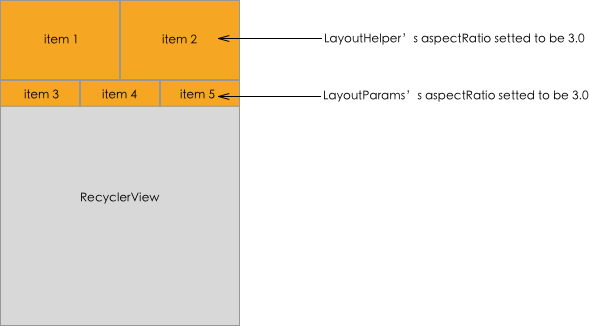
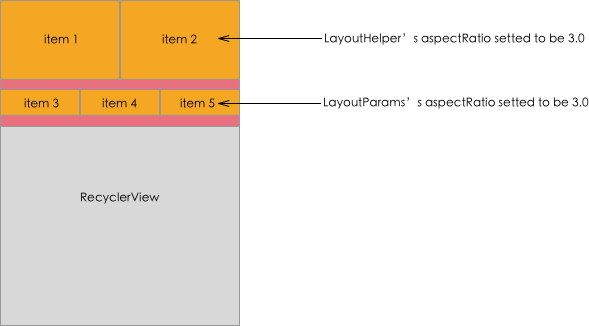
finish figure of attributes explaination

Changed region(s): [[0.0, 0.2454, 0.4278, 0.3988], [0.5501, 0.2761, 1.0, 0.3374]]

diff --git a/docs/ATTRIBUTES.md b/docs/ATTRIBUTES.md
@@ -10,7 +10,7 @@ Margin, padding have the similar concepts as normal Android system's margin and 
 + A ```RecyclerView``` could contains more than one layoutHelpers, which means each ```LayoutHelper``` is able to host its own margin and padding value.
 + ```LayoutHelper```'s margin and padding can coexist with ```RecylerView```'s margin and padding.
 
-![TODO]()
+![margin-padding](images/MarginPadding.png)
 
 ### API
 
@@ -23,6 +23,8 @@ For ```LayoutHelper```，call
 # bgColor, bgImg
 
 Actually, background color or background image has nothing to do with layout logic. But in our framework, all child views has the same parent which is ```RecyclerView```. If you want to fill background to a certain area with a color or image, it's a hard job. Vlayout has done some effort to make it possible for non-fix or non-float ```LayoutHelper```, so it's explained here.
+
+![background](images/Background.png)
 
 ### API
 
@@ -84,7 +86,7 @@ In order to uniform child view's height during layout, vlayout introduces aspect
 + The aspectRatio defined by ```LayoutHelper``` means the ratio of width of one entire row's view to height of this row's height. Here ```RecyclerView```'s margin padding and ```LayoutHelper```'s margin padding is not included in the width of entire row's view.
 + The aspectRatio defined in ```VirtualLayoutManager.LayoutParams``` means the ratio of width of this view to height of this view. The height calculated by this way will override ```LayoutHelper```'s calculation result, so it has higher priority.
 
-![TODO]()
+![aspectRatio](images/AspectRatio.png)
 
 ### API
 
@@ -100,7 +102,7 @@ For ```LayoutParams```, call
 
 ```LinearLayoutHelper```'s attribute. ```LinearLayoutHelper``` performs like ```ListView```, so as you know, dividerHeight is the gap between items.
 
-![TODO]()
+![dividerHeight](images/DividerHeight.png)
 
 ### API
 
@@ -114,7 +116,7 @@ For ```LinearLayoutHelper```, call
 
 This arribute is a float array, each item in array means the percentage of a column width. The sum of item value in array is 100, otherwise child view may be layouted outside the box. If there are four columns in this layout, the suggested length of weights is four, too. If length of weights array is larged than 4, the extra weight provided is ignored. If length of weights array is less than 4, the remaining views with no weight assigned share the ramaining available space.
 
-![TODO]()
+![weights](images/Weights.png)
 
 ### API
 
@@ -126,7 +128,7 @@ For ```ColumnLayoutHelper```, ```GridLayoutHelper```, call
 
 ```GridLayoutHelper``` and ```StaggeredGridLayoutHelper```'s attribute, vGap defines the vertical gap between child views, hGap defines the horizontal gap between child views.
 
-![TODO]()
+![vgap-hgap](images/HGapVGap.png)
 
 ### API
 
@@ -139,7 +141,7 @@ For ```GridLayoutHelper```, ```StaggeredGridLayoutHelper```, call
 
 ```GridLayoutHelper```'s attribute, concept borrowed from system's ```GridLayoutManager```. SpanCount specifies the column count, or grid count each line in other word. By default each item view in ```GridLayoutHelper``` occupies one grid, but with custom spanSizeLookup it allows one item view could occupy more than one grid space.
 
-![TODO]()
+![spanCount-spanSize](images/SpanCountSpanSize.png)
 
 ### API
 
@@ -155,7 +157,7 @@ Setting spanSizeLookup call
 
 ```GridLayoutHelper```'s attribute. On the occasion of one line view's count is less than spanCount, if autoExpand setted to be true, these view will expand to fill all available space, otherwise they will leave some blank area.
 
-![TODO]()
+![autoExpand](images/AutoExpand.png)
 
 ### API
 
@@ -171,9 +173,9 @@ Setting spanSizeLookup call
 
 # fixAreaAdjuster
 
-```LayoutHelper``` with fix behavior may need an offset to four edges of parent container. For example, a activity has a vlayout container with fullscreen size, there's an title bar on top of vlayout's container which is not part of vlayout. While a view inside vlayout wants to be fixed at top of vlayout, so it needs an offset to top edge to avoid overlapping with title bar outside.
+```LayoutHelper``` with fix behavior may need an offset to four edges of parent container. For example, an activity has a vlayout container with fullscreen size, there's an title bar on top of vlayout's container which is not part of vlayout. While a view inside vlayout wants to be fixed at top of vlayout, so it needs an offset to top edge to avoid overlapping with title bar outside.
 
-![TODO]()
+![fixAreaAdjuster](images/FixAreaAdjuster.png)
 
 ### API
 
@@ -188,7 +190,7 @@ Setting spanSizeLookup call
 + ```BOTTOM_LEFT```: base position is bottom left corner of parent container, ```x``` is the offset from child view's left edge to parent's left edge, ```y``` is the offset from child view's bottom edge to parent's bottom edge;
 + ```BOTTOM_RIGHT```: base position is bottom right corner of parent container, ```x``` is the offset from child view's right edge to parent's right edge, ```y``` is the offset from child view's bottom edge to parent's bottom edge;
 
-![TODO]()
+![alignTypeXY](images/AlignTypeXY.png)
 
 ### API
 
@@ -210,7 +212,7 @@ Setting offset call
 + ```SHOW_ON_ENTER```: in this way, the child view in ```LayoutHelper``` does not show by default. It shows only when the page scroll to its position.
 + ```SHOW_ON_LEAVE```: in this way, the child view in ```LayoutHelper``` does not show by default, either. It shows only when the page scroll over its position.
 
-![TODO]()
+![showType](images/ShowType.png)
 
 ### API
 
@@ -220,7 +222,7 @@ Setting offset call
 
 ```StickyLayoutHelper```'s attribute, when child view's position is inside the screen visible area, the child view scrll with whole page; when child view position scrolls outside the screen, this ```LayoutHelper``` will fix the at top(```stickyStart = true```) or bottom(```stickyStart = false```). The fix position is also affected by offset value.
 
-![TODO]()
+![stickyStart](images/StickyStart.png)
 
 ### API
 
